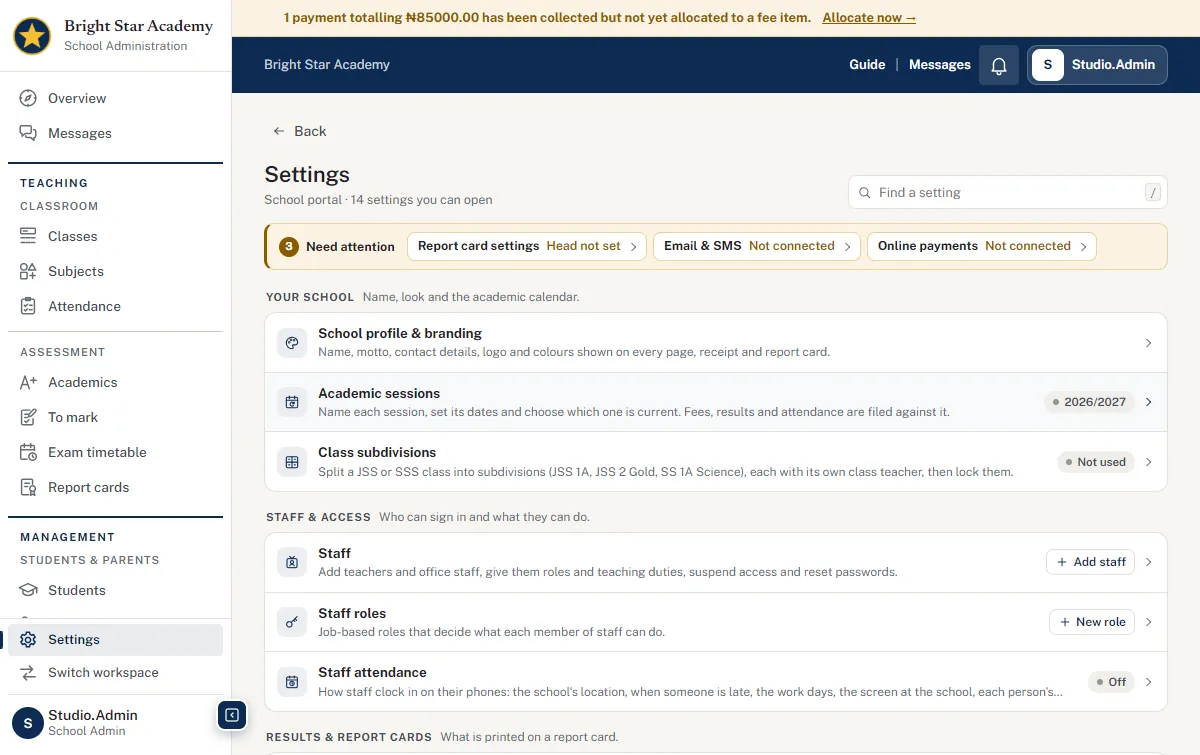
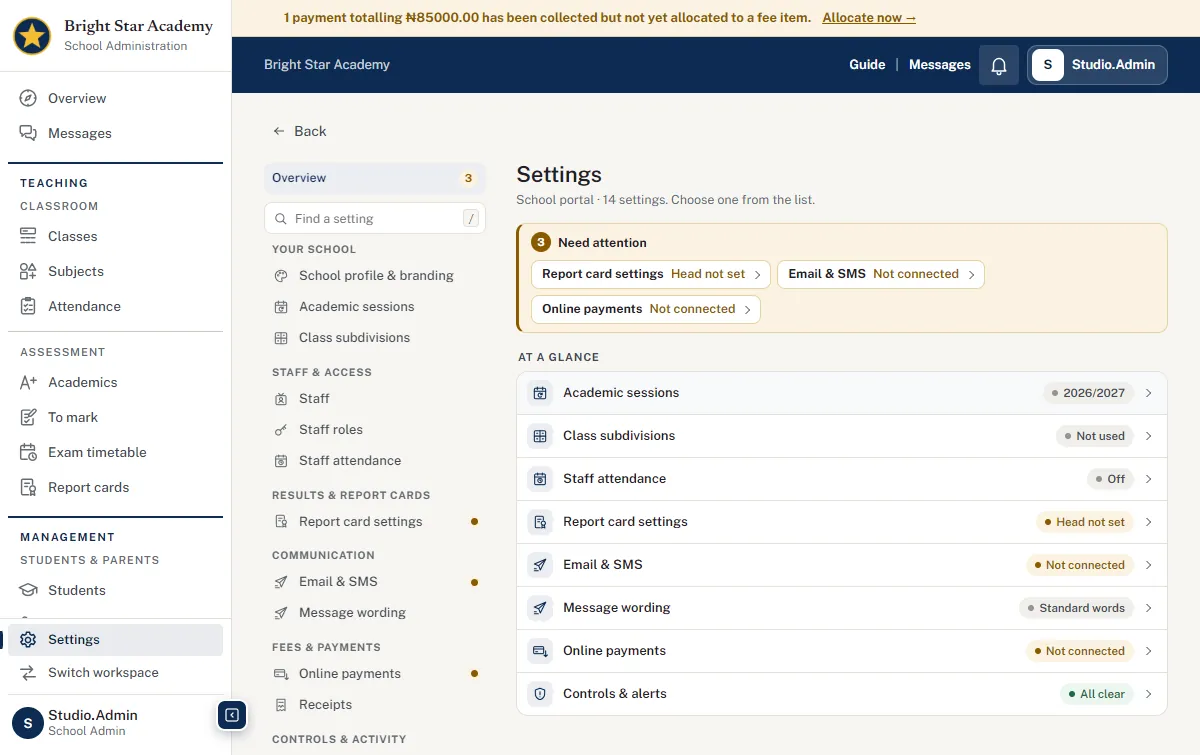
2.36.1: Settings opens on its list
- Settings opens on the list of every setting, by group, the same list that
  sits beside each setting's page, instead of a grid of cards. Beside it:
  what needs attention, then each setting's state at a glance in one column.
- On a phone, Settings opens on the list itself; inside a setting the list
  still folds into the switcher and bottom sheet.
- The grid's styles are removed; guide text, its picture and release notes
  updated.

diff --git a/static/settings.css b/static/settings.css
@@ -6,7 +6,6 @@
 
 /* ---- frame: a setting's page, with the list of settings beside it --------------------------- */
 .sx { display: grid; grid-template-columns: 228px minmax(0, 1fr); gap: 24px; align-items: start; }
-.sx.sx--over { display: block; }
 .sx-switch, .sx-scrim, .sx-side__close { display: none; }
 .sx-side { position: sticky; top: 12px; display: flex; flex-direction: column; gap: 8px; max-height: calc(100vh - 24px); overflow: auto;
   padding: 2px 6px 10px 0; scrollbar-width: thin; }
@@ -14,6 +13,7 @@
 .sx-all { flex: 1; display: flex; align-items: center; gap: 8px; padding: 6px 8px; border-radius: 8px; font-size: 12.5px; font-weight: 600;
   color: var(--ink-2); text-decoration: none; }
 .sx-all:hover { color: var(--brand); background: var(--surface-1); }
+.sx-all.is-on { color: var(--brand); background: color-mix(in srgb, var(--brand) 8%, var(--surface-0)); cursor: default; }
 .sx-all__back { width: 7px; height: 7px; border-left: 1.8px solid currentColor; border-bottom: 1.8px solid currentColor; transform: rotate(45deg); margin: 0 2px 0 3px; }
 .sx-all__n { margin-left: auto; min-width: 18px; padding: 1px 6px; border-radius: 999px; font-size: 11px; font-weight: 700; text-align: center;
   color: var(--warning); background: var(--warning-bg); }
@@ -26,7 +26,7 @@
   border-radius: 4px; font: 600 10.5px/16px var(--font-mono, ui-monospace, monospace); text-align: center; color: var(--ink-3); background: var(--surface-1); }
 .sx-find input:focus + kbd, .sx-find input:not(:placeholder-shown) + kbd { display: none; }
 .sx-groups { display: flex; flex-direction: column; gap: 12px; }
-.sx-group[hidden], .sx-group li[hidden], .sx-none[hidden], .sx-sec[hidden], .sx-row[hidden] { display: none !important; }
+.sx-group[hidden], .sx-group li[hidden], .sx-none[hidden] { display: none !important; }
 .sx-group__t { padding: 0 8px 3px; font-size: 10.5px; font-weight: 700; letter-spacing: .07em; text-transform: uppercase; color: var(--ink-3); }
 .sx-group ul { list-style: none; margin: 0; padding: 0; display: flex; flex-direction: column; gap: 1px; }
 .sx-link { position: relative; display: flex; align-items: center; gap: 9px; min-height: 30px; padding: 4px 8px; border-radius: 7px; font-size: 13px; font-weight: 500;
@@ -34,7 +34,7 @@
 .sx-link:hover { color: var(--ink); background: var(--surface-1); }
 .sx-link.is-on { color: var(--brand); font-weight: 650; background: color-mix(in srgb, var(--brand) 8%, var(--surface-0)); }
 .sx-link.is-on::before { content: ""; position: absolute; left: 0; top: 6px; bottom: 6px; width: 3px; border-radius: 0 3px 3px 0; background: var(--brand-accent); }
-.sx-link:focus-visible, .sx-all:focus-visible, .sx-row__main:focus-visible, .sx-attn a:focus-visible, .sx-switch:focus-visible {
+.sx-link:focus-visible, .sx-all:focus-visible, .sx-attn a:focus-visible, .sx-switch:focus-visible {
   outline: 2px solid var(--brand-accent); outline-offset: 1px; }
 .sx-link .sx-ico { width: 18px; height: 18px; background: none; color: var(--ink-3); }
 .sx-link .sx-ico svg { width: 16px; height: 16px; }
@@ -89,13 +89,18 @@
 .sx-pane .sig-pad-wrap { border-color: var(--line-strong); }
 
 /* ---- overview: the whole index ------------------------------------------------------------- */
-.sx-over { max-width: 1240px; }
+.sx-over { max-width: 820px; }
+.sx-glance h2 { margin: 0 0 6px; padding: 0 2px; font-size: 11px; font-weight: 700; letter-spacing: .07em; text-transform: uppercase; color: var(--ink-2); }
+.sx-glance ul { list-style: none; margin: 0; padding: 0; border: 1px solid var(--line); border-radius: 12px; background: var(--surface-0); overflow: hidden; }
+.sx-glance li + li { border-top: 1px solid var(--line); }
+.sx-glance a { display: flex; align-items: center; gap: 10px; padding: 8px 14px 8px 10px; color: var(--ink); text-decoration: none; font-size: 13px; }
+.sx-glance a:hover { background: color-mix(in srgb, var(--brand) 3%, var(--surface-0)); }
+.sx-glance a strong { flex: 1; min-width: 0; font-weight: 600; }
+.sx-glance a i { width: 6px; height: 6px; border-top: 1.6px solid var(--ink-3); border-right: 1.6px solid var(--ink-3); transform: rotate(45deg); margin-right: 3px; }
+.sx-glance .sx-ico { width: 26px; height: 26px; }
 .sx-over__head { display: flex; flex-wrap: wrap; align-items: flex-end; justify-content: space-between; gap: 10px 20px; margin: 0 0 14px; }
 .sx-over__title h1 { margin: 0; font-size: 22px; line-height: 1.2; letter-spacing: -.01em; color: var(--ink); }
 .sx-over__title p { margin: 3px 0 0; font-size: 12.5px; color: var(--ink-3); }
-.sx-find--over { flex: 0 1 320px; }
-.sx-find--over input { height: 34px; font-size: 13px; }
-
 .sx-attn { display: flex; flex-wrap: wrap; align-items: center; gap: 8px 12px; margin: 0 0 18px; padding: 8px 10px 8px 12px;
   border: 1px solid var(--warning-line); border-left: 3px solid var(--warning); border-radius: 10px; background: var(--warning-bg); }
 .sx-attn h2 { display: flex; align-items: center; gap: 7px; margin: 0; font-size: 12.5px; font-weight: 700; color: var(--ink); white-space: nowrap; }
@@ -105,33 +110,12 @@
   background: var(--surface-0); font-size: 12.5px; color: var(--ink); text-decoration: none; }
 .sx-attn a strong { font-weight: 650; }
 .sx-attn a span { color: var(--warning); font-weight: 600; }
-.sx-attn a i, .sx-row__go { width: 6px; height: 6px; border-top: 1.6px solid var(--ink-3); border-right: 1.6px solid var(--ink-3); transform: rotate(45deg); margin: 0 3px 0 1px; }
+.sx-attn a i { width: 6px; height: 6px; border-top: 1.6px solid var(--ink-3); border-right: 1.6px solid var(--ink-3); transform: rotate(45deg); margin: 0 3px 0 1px; }
 .sx-attn a:hover { border-color: var(--warning); }
 .sx-allgood { display: flex; align-items: center; gap: 9px; margin: 0 0 18px; padding: 8px 12px; border: 1px solid var(--success-line);
   border-left: 3px solid var(--success); border-radius: 10px; background: var(--success-bg); font-size: 12.5px; color: var(--ink-2); }
 .sx-allgood svg { width: 18px; height: 18px; flex: none; color: var(--success); }
 
-.sx-index { columns: 2 460px; column-gap: 18px; }
-.sx-sec { break-inside: avoid; margin: 0 0 16px; }
-.sx-sec__h { display: flex; flex-wrap: wrap; align-items: baseline; gap: 2px 8px; margin: 0 0 6px; padding: 0 2px; }
-.sx-sec__h h2 { margin: 0; font-size: 11px; font-weight: 700; letter-spacing: .07em; text-transform: uppercase; color: var(--ink-2); }
-.sx-sec__h p { margin: 0; font-size: 12px; color: var(--ink-3); }
-.sx-rows { list-style: none; margin: 0; padding: 0; border: 1px solid var(--line); border-radius: 12px; background: var(--surface-0); overflow: hidden; }
-.sx-row { position: relative; display: flex; align-items: center; gap: 10px; border-bottom: 1px solid var(--line); }
-.sx-row:last-child { border-bottom: 0; }
-.sx-row:hover { background: color-mix(in srgb, var(--brand) 3%, var(--surface-0)); }
-.sx-row:hover .sx-row__go { border-color: var(--brand); }
-.sx-row__main { flex: 1; min-width: 0; display: flex; align-items: center; gap: 11px; padding: 10px 0 10px 12px; color: inherit; text-decoration: none; }
-.sx-row__main::after { content: ""; position: absolute; inset: 0; }         /* the whole row opens the setting */
-.sx-row__copy { min-width: 0; }
-.sx-row__copy strong { display: block; font-size: 13.5px; font-weight: 650; color: var(--ink); }
-.sx-row__copy > span { display: -webkit-box; -webkit-line-clamp: 1; -webkit-box-orient: vertical; overflow: hidden; margin-top: 1px; font-size: 12px; line-height: 1.45; color: var(--ink-3); }
-.sx-row__end { position: relative; z-index: 1; display: flex; align-items: center; gap: 8px; flex: none; padding-right: 14px; pointer-events: none; }
-.sx-row__end > * { pointer-events: auto; }
-.sx-row__go { pointer-events: none; }
-.sx-row__act { display: inline-flex; align-items: center; gap: 4px; padding: 3px 8px; border: 1px solid var(--line); border-radius: 7px; font-size: 12px; font-weight: 600;
-  color: var(--brand); text-decoration: none; background: var(--surface-0); }
-.sx-row__act:hover { border-color: var(--brand); }
 .ico-sm { width: 14px; height: 14px; }
 
 /* ---- staff ------------------------------------------------------------------------------- */
@@ -385,8 +369,10 @@
   .sx-link { min-height: 40px; font-size: 14px; }
   .sx-head h1 { font-size: 18px; }
   .sx-crumb { display: none; }
-  .sx-index { columns: 1; }
-  .sx-find--over { flex: 1 1 100%; }
+  /* the overview on a phone: the list itself comes first, then what needs attention */
+  .sx--over .sx-side { position: static; display: flex; max-height: none; padding: 0 0 16px; border-radius: 0; background: none; box-shadow: none; animation: none; }
+  .sx--over .sx-side .sx-link { border-bottom: 1px solid var(--line); border-radius: 0; }
+  .sx--over .sx-over__head { display: none; }
 }
 @keyframes sx-up { from { transform: translateY(24px); opacity: .4; } to { transform: none; opacity: 1; } }
 @media (prefers-reduced-motion: reduce) { .sx-side.is-open { animation: none; } }
@@ -395,9 +381,6 @@
   .on-k { grid-template-columns: 1fr; }
   .lg-row { grid-template-columns: 48px 24px minmax(0, 1fr); }
   .lg-ip { display: none; }
-  .sx-row__copy > span { -webkit-line-clamp: 2; }
-  .sx-row__main { padding-left: 10px; }
-  .sx-row__end { padding-right: 12px; }
 }
 .rl-card[hidden], .adm-empty[hidden] { display: none !important; }
 

diff --git a/templates/admin_settings.html b/templates/admin_settings.html
@@ -2,18 +2,16 @@
 {% from 'includes/_nav_icons.html' import icon %}
 {% block title %}Settings — {{ school_brand.name }}{% endblock %}
 {% block content %}
-{#- The overview Settings opens on: the whole index of settings, full width. A strip first with what needs attention,
-    then every setting by group, one slim row each with its state. Every row opens its page in place, with the list
-    of settings beside it (templates/includes/_settings_side.html). "Find a setting" narrows the index as you type. -#}
+{#- The overview Settings opens on. The list of every setting is on the left (templates/includes/_settings_side.html);
+    beside it: what needs attention, then each setting's state at a glance, in one column. On a phone the list comes
+    first and this follows it. -#}
 {% if groups %}
 <div class="sx-over">
   <header class="sx-over__head">
     <div class="sx-over__title">
       <h1>Settings</h1>
-      <p>{{ 'Entrance examination' if workspace == 'entrance' else 'School portal' }} · {{ total }} setting{{ '' if total == 1 else 's' }} you can open</p>
+      <p>{{ 'Entrance examination' if workspace == 'entrance' else 'School portal' }} · {{ total }} setting{{ '' if total == 1 else 's' }}. Choose one from the list.</p>
     </div>
-    <label class="sx-find sx-find--over"><span class="sx-sr">Find a setting</span>{{ icon('set-search') }}
-      <input type="search" placeholder="Find a setting" autocomplete="off" data-sx-find><kbd aria-hidden="true">/</kbd></label>
   </header>
 
   {% if attention %}
@@ -30,29 +28,19 @@
   <p class="sx-allgood">{{ icon('check-circle') }}<span><strong>Everything is in order.</strong> Nothing here needs your attention.</span></p>
   {% endif %}
 
-  <div class="sx-index">
-    {% for grp in groups %}
-    <section class="sx-sec" aria-labelledby="sx-g-{{ grp.key }}" data-sx-group>
-      <div class="sx-sec__h"><h2 id="sx-g-{{ grp.key }}">{{ grp.title }}</h2><p>{{ grp.blurb }}</p></div>
-      <ul class="sx-rows">
-        {% for e in grp.entries %}
-        <li class="sx-row" data-find="{{ (e.title ~ ' ' ~ e.text ~ ' ' ~ e.keywords ~ ' ' ~ grp.title)|lower }}">
-          <a class="sx-row__main" href="{{ e.path }}" data-sx-entry{% if not e.inplace %} data-full{% endif %}>
-            <span class="sx-ico">{{ icon(e.icon) }}</span>
-            <span class="sx-row__copy"><strong>{{ e.title }}{% if not e.inplace %}<span class="sx-out" title="Opens its own page">{{ icon('arrow-right') }}</span>{% endif %}</strong><span>{{ e.text }}</span></span>
-          </a>
-          <span class="sx-row__end">
-            {% if e.action %}<a class="sx-row__act" href="{{ url_for(e.action[1]) }}" data-modal>{{ icon('set-plus', 'ico-sm') }}{{ e.action[0] }}</a>{% endif %}
-            {% if e.status %}<span class="sx-chip is-{{ e.status[1] }}">{{ e.status[0] }}</span>{% endif %}
-            <i class="sx-row__go" aria-hidden="true"></i>
-          </span>
-        </li>
-        {% endfor %}
-      </ul>
-    </section>
-    {% endfor %}
-    <p class="sx-none" data-sx-none hidden>No setting matches.</p>
-  </div>
+  {% set glance = [] %}{% for grp in groups %}{% for e in grp.entries if e.status %}{% set _ = glance.append(e) %}{% endfor %}{% endfor %}
+  {% if glance %}
+  <section class="sx-glance" aria-labelledby="sx-glance-h">
+    <h2 id="sx-glance-h">At a glance</h2>
+    <ul>
+      {% for e in glance %}
+      <li><a href="{{ e.path }}"{% if not e.inplace %} data-full{% endif %}>
+        <span class="sx-ico">{{ icon(e.icon) }}</span><strong>{{ e.title }}</strong>
+        <span class="sx-chip is-{{ e.status[1] }}">{{ e.status[0] }}</span><i aria-hidden="true"></i></a></li>
+      {% endfor %}
+    </ul>
+  </section>
+  {% endif %}
 </div>
 {% else %}
 <section class="card"><p class="muted" style="margin:0">Your role has no settings to manage here.</p></section>

diff --git a/templates/school_guide/staff-admin.html b/templates/school_guide/staff-admin.html
@@ -39,19 +39,20 @@ Collections, books for the Library, a gear for Settings.</p>
 portal up, decides who can use it and records what happened: the school profile, academic sessions, class
 subdivisions, staff and their roles, report card settings, Email &amp; SMS, message wording, online payments, receipts,
 controls and alerts, the activity log and who is online. You see only what your role allows.</p>
-{{ shot('settings', 'Settings opens on the whole index: what needs attention first, then every setting by group, one row each with its state.') }}
+{{ shot('settings', 'Settings opens on the list of every setting, by group, with what needs attention and the state of each setting beside it.') }}
 <ul>
-  <li><strong>The index</strong> comes first. A strip at the top names anything that needs attention (online payments not
-  connected, the head's signature missing, alerts left open); click one to fix it. Below it is every setting by group,
-  one row each with its state at a glance, such as which session is current or whether Email &amp; SMS is the school's
-  own account. Staff and Staff roles carry <strong>+ Add staff</strong> and <strong>+ New role</strong> on their rows.</li>
-  <li><strong>Find a setting</strong> narrows the index as you type; press <kbd>/</kbd> anywhere in Settings to jump to it,
-  Enter to open the first match and Escape to clear it.</li>
-  <li><strong>Inside a setting</strong>, the list of settings stays on the left so you can move between them without
-  going back; a dot marks one that needs a look, and <em>All settings</em> returns to the index. The page opens with
-  where you are (Settings / its group), its name, its state and its main action.</li>
-  <li><strong>On a phone</strong>, the list folds into one button at the top naming the setting you are in; tap it to
-  open the list from the bottom of the screen and choose another.</li>
+  <li><strong>The list</strong> of every setting, by group, is on the left of every Settings page, the first one included;
+  a dot marks a setting that needs a look. Click one to open it beside the list, without leaving Settings.</li>
+  <li><strong>Beside it, when Settings opens,</strong> a strip names anything that needs attention (online payments not
+  connected, the head's signature missing, alerts left open), then <em>At a glance</em> gives each setting's state in one
+  column, such as which session is current or whether Email &amp; SMS is the school's own account.</li>
+  <li><strong>Find a setting</strong>, at the top of the list, narrows it as you type; press <kbd>/</kbd> anywhere in
+  Settings to jump to it, Enter to open the first match and Escape to clear it.</li>
+  <li><strong>Inside a setting</strong>, the page opens with where you are (Settings / its group), its name, its state and
+  its main action, such as <strong>+ Add staff</strong> on Staff or <strong>+ New role</strong> on Staff roles.
+  <em>All settings</em>, at the top of the list, goes back to the start.</li>
+  <li><strong>On a phone</strong>, Settings opens on the list itself. Inside a setting, the list folds into one button at the
+  top naming the setting you are in; tap it to open the list from the bottom of the screen and choose another.</li>
   <li><strong>The entrance examination's set-up</strong> is a workspace of its own, so it opens as its own page (its
   entry carries a small arrow).</li>
 </ul>

diff --git a/templates/includes/_settings_side.html b/templates/includes/_settings_side.html
@@ -1,9 +1,10 @@
-{#- The list of settings beside a setting's own page (templates/admin_base.html wraps the page in it; the overview,
-    admin_settings.html, is the full index and has no list beside it). Every link opens its page in place; the
-    entrance examination's set-up is its own workspace and opens as a page of its own (data-full). A dot marks a
-    setting that needs attention. On a phone the list folds into one switcher ("Settings / Email & SMS") that opens
-    it as a sheet (static/settings.js). -#}
+{#- The list of settings, on the left of every Settings page, the overview included (templates/admin_base.html wraps
+    the page in it). Every link opens its page in place; the entrance examination's set-up is its own workspace and
+    opens as a page of its own (data-full). A dot marks a setting that needs attention. On a phone the overview is the
+    list itself; on a setting's page the list folds into one switcher ("Settings / Email & SMS") that opens it as a
+    sheet (static/settings.js). -#}
 {% from 'includes/_nav_icons.html' import icon %}
+{% if sx.current %}
 <button type="button" class="sx-switch" data-sx-open aria-haspopup="dialog" aria-controls="sx-side">
   <span class="sx-switch__ico">{{ icon('nav-settings') }}</span>
   <span class="sx-switch__t"><small>Settings</small><strong>{{ sx.current.title }}</strong></span>
@@ -11,14 +12,20 @@
   <span class="sx-switch__chev" aria-hidden="true"></span>
 </button>
 <div class="sx-scrim" data-sx-close hidden></div>
+{% endif %}
 <aside class="sx-side" id="sx-side" aria-label="Settings" data-sx-side>
   <div class="sx-side__top">
+    {% if sx.current %}
     <a class="sx-all" href="{{ url_for('admin_settings') }}">
       <span class="sx-all__back" aria-hidden="true"></span>
       <span>All settings</span>
       {% if sx.attention %}<span class="sx-all__n" title="{{ sx.attention|length }} need attention">{{ sx.attention|length }}</span>{% endif %}
     </a>
     <button type="button" class="sx-side__close" data-sx-close aria-label="Close">{{ icon('close') }}</button>
+    {% else %}
+    <span class="sx-all is-on" aria-current="page"><span>Overview</span>
+      {% if sx.attention %}<span class="sx-all__n" title="{{ sx.attention|length }} need attention">{{ sx.attention|length }}</span>{% endif %}</span>
+    {% endif %}
   </div>
   <label class="sx-find"><span class="sx-sr">Find a setting</span>{{ icon('set-search') }}
     <input type="search" placeholder="Find a setting" autocomplete="off" data-sx-find><kbd aria-hidden="true">/</kbd></label>

diff --git a/templates/admin_base.html b/templates/admin_base.html
@@ -364,10 +364,10 @@
         {% set in_modal = request.values.get('modal') == '1' or request.headers.get('X-Modal') == '1' %}
         {% set sx = settings_nav() if (has_rail and not in_modal) else none %}
         {% if sx %}
-        <link rel="stylesheet" href="{{ url_for('static', filename='settings.css', v='4') }}">
-        {#- The overview is the whole index of settings, full width; a setting's own page has the list beside it. -#}
+        <link rel="stylesheet" href="{{ url_for('static', filename='settings.css', v='5') }}">
+        {#- The list of settings is always on the left; the overview (no setting open) shows what needs attention beside it. -#}
         <div class="sx{{ ' sx--over' if not sx.current }}" data-sx>
-        {% if sx.current %}{% include 'includes/_settings_side.html' %}{% endif %}
+        {% include 'includes/_settings_side.html' %}
         <section class="sx-pane" aria-label="{{ sx.current.title if sx.current else 'Settings' }}">
         {% if sx.current %}
         <header class="sx-head">
